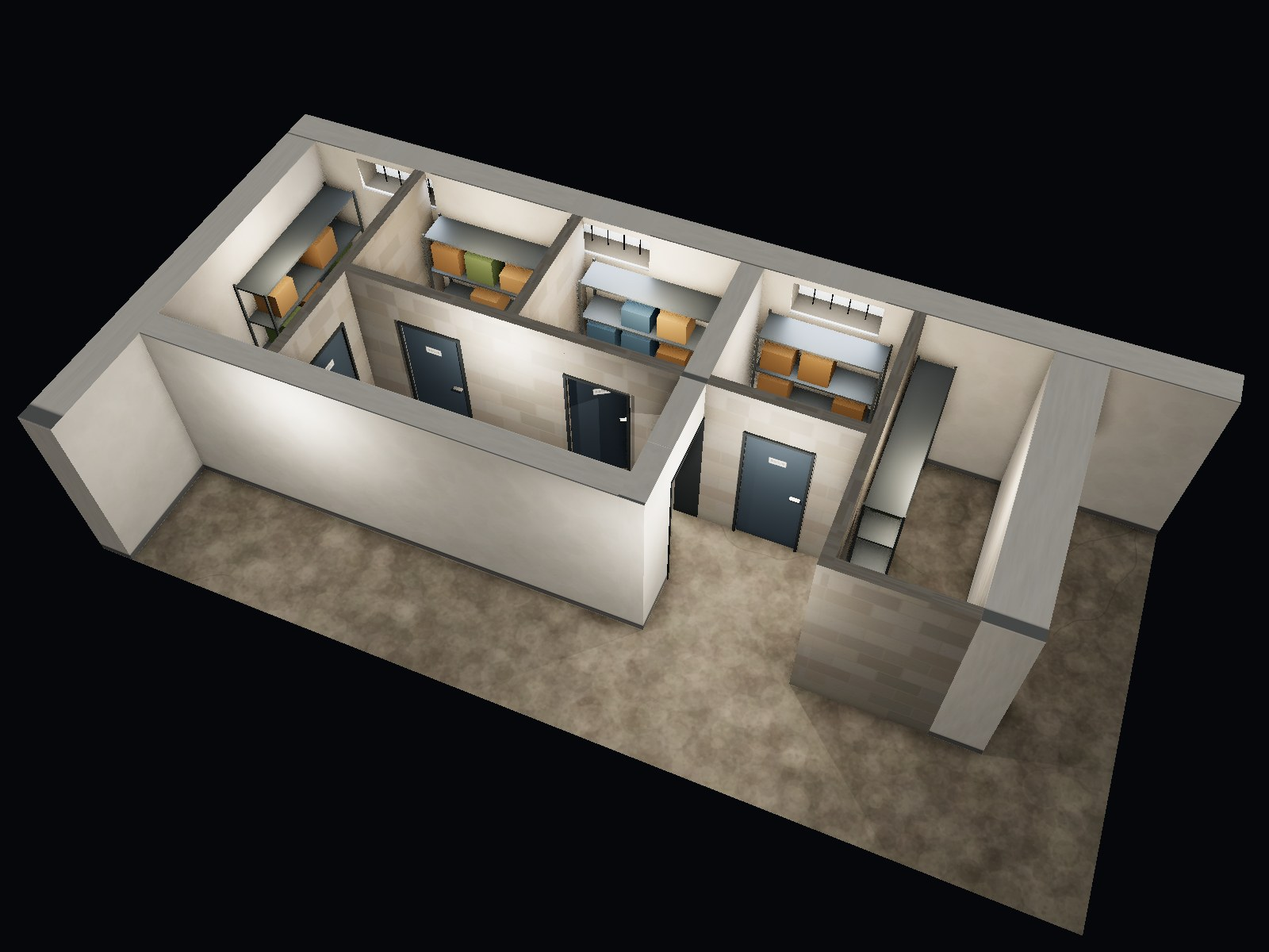
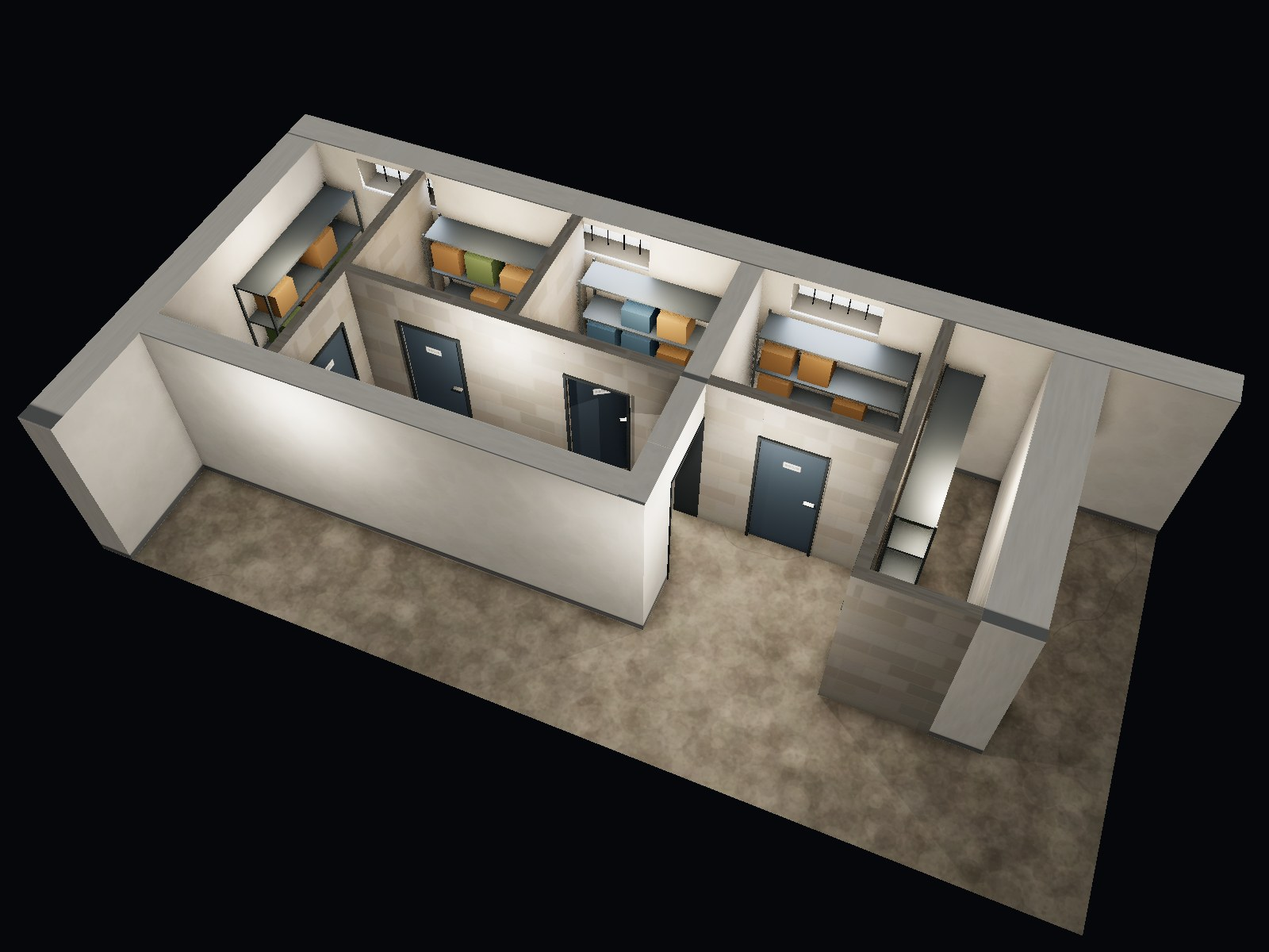
Widen 885/9 to 2,20 m (4,07 m²), narrow 885/2 to 1,15 m
Claude-Session: https://claude.ai/code/session_01PwTnPep7yYfhi5YvdxRW3v

Changed region(s): [[0.5625, 0.3083, 0.7812, 0.6167], [0.5938, 0.6475, 0.6562, 0.74]]

diff --git a/sklepyjachymov.html b/sklepyjachymov.html
@@ -546,12 +546,12 @@
                     <rect x="246" y="80" width="84" height="74" class="proposed-unit" onclick="selectItem('proposal2', 'Kóje 885/8', 'Sklepní kóje – cílový stav', '2,10 x 1,85 m (3,89 m²)', 'Vnitřní rozměr, příčky 15 cm, dveře 0,80 m')"></rect>
                     <text x="288" y="96.8" class="label-title" fill="#0d47a1" style="font-size:11px;">885/8</text>
                     <text x="288" y="110" class="label-title" fill="#0d47a1" style="font-size:9px; font-weight:normal;">2,10 × 1,85</text>
-                    <rect x="342" y="80" width="74" height="74" class="proposed-unit" onclick="selectItem('proposal2', 'Kóje 885/9', 'Sklepní kóje – cílový stav', '1,85 x 1,85 m (3,42 m²)', 'Vnitřní rozměr, příčky 15 cm, dveře 0,80 m')"></rect>
-                    <text x="379" y="96.8" class="label-title" fill="#0d47a1" style="font-size:11px;">885/9</text>
-                    <text x="379" y="110" class="label-title" fill="#0d47a1" style="font-size:9px; font-weight:normal;">1,85 × 1,85</text>
-                    <rect x="422" y="80" width="60" height="146" class="proposed-unit" onclick="selectItem('proposal2', 'Kóje 885/2', 'Sklepní kóje – cílový stav', '1,50 x 3,65 m (5,47 m²)', 'Vnitřní rozměr, příčky 15 cm, dveře 0,80 m')"></rect>
-                    <text x="452" y="147" class="label-title" fill="#0d47a1" style="font-size:11px;">885/2</text>
-                    <text x="452" y="160.2" class="label-title" fill="#0d47a1" style="font-size:9px; font-weight:normal;">1,50 × 3,65</text>
+                    <rect x="342" y="80" width="88" height="74" class="proposed-unit" onclick="selectItem('proposal2', 'Kóje 885/9', 'Sklepní kóje – cílový stav', '2,20 x 1,85 m (4,07 m²)', 'Vnitřní rozměr, příčky 15 cm, dveře 0,80 m')"></rect>
+                    <text x="386" y="96.8" class="label-title" fill="#0d47a1" style="font-size:11px;">885/9</text>
+                    <text x="386" y="110" class="label-title" fill="#0d47a1" style="font-size:9px; font-weight:normal;">2,20 × 1,85</text>
+                    <rect x="436" y="80" width="46" height="146" class="proposed-unit" onclick="selectItem('proposal2', 'Kóje 885/2', 'Sklepní kóje – cílový stav', '1,15 x 3,65 m (4,20 m²)', 'Vnitřní rozměr, příčky 15 cm, dveře 0,80 m')"></rect>
+                    <text x="459" y="147" class="label-title" fill="#0d47a1" style="font-size:11px;">885/2</text>
+                    <text x="459" y="160.2" class="label-title" fill="#0d47a1" style="font-size:9px; font-weight:normal;">1,15 × 3,65</text>
                     <rect x="655.4" y="80" width="104" height="152" class="proposed-unit" onclick="selectItem('proposal2', 'Kóje 885/10', 'Sklepní kóje – cílový stav', '2,60 x 3,80 m (9,88 m²)', 'Vnitřní rozměr, příčky 15 cm, dveře 0,80 m')"></rect>
                     <text x="707.4" y="150" class="label-title" fill="#0d47a1" style="font-size:11px;">885/10</text>
                     <text x="707.4" y="163.2" class="label-title" fill="#0d47a1" style="font-size:9px; font-weight:normal;">2,60 × 3,80</text>
@@ -574,16 +574,16 @@
                     <text x="803.8" y="96.8" class="label-title" fill="#0d47a1" style="font-size:11px;">A6</text>
                     <text x="803.8" y="110" class="label-title" fill="#0d47a1" style="font-size:9px; font-weight:normal;">1,50 × 1,95</text>
                     <rect x="156" y="160" width="174" height="57.96" fill="#f5f5f5" stroke="#9e9e9e" stroke-width="1" style="cursor: pointer;" onclick="selectItem('proposal2', 'Přístup A1', 'Přístupová plocha', '4,35 x 1,45 m (6,30 m²)', 'Přístup ke kójím 885/1, 885/6 a 885/8 průchodem z A2')"></rect>
-                    <rect x="342" y="160" width="74" height="72" fill="#f5f5f5" stroke="#9e9e9e" stroke-width="1" style="cursor: pointer;" onclick="selectItem('proposal2', 'Přístup A2', 'Přístupová plocha', '1,85 x 1,80 m (3,33 m²)', 'Otevřeno do chodby C1 v celé šířce 885/9 (1,85 m); přístup k 885/9 a 885/2, průchodem doleva do A1')"></rect>
+                    <rect x="342" y="160" width="88" height="72" fill="#f5f5f5" stroke="#9e9e9e" stroke-width="1" style="cursor: pointer;" onclick="selectItem('proposal2', 'Přístup A2', 'Přístupová plocha', '2,20 x 1,80 m (3,96 m²)', 'Otevřeno do chodby C1 v celé šířce 885/9 (2,20 m); přístup k 885/9 a 885/2, průchodem doleva do A1')"></rect>
                     <rect x="430" y="325.2" width="71.8" height="216.96" fill="#f5f5f5" stroke="#9e9e9e" stroke-width="1" style="cursor: pointer;" onclick="selectItem('proposal2', 'Přístup B2', 'Volná část B2', '1,79 x 5,42 m (9,74 m²)', 'Přístup ke kójím 885/5, 885/X a 885/4')"></rect>
                     <rect x="773.8" y="164" width="60" height="68" fill="#f5f5f5" stroke="#9e9e9e" stroke-width="1" style="cursor: pointer;" onclick="selectItem('proposal2', 'Boční chodba', 'Boční chodba', '1,50 x 1,70 m (2,55 m²)', 'Přístup ke kójím A6 a 885/7')"></rect>
                     <!-- Nové příčky 15 cm -->
                     <rect x="150" y="80" width="6" height="137.96" fill="#546e7a" pointer-events="none"></rect>
                     <rect x="240" y="80" width="6" height="74" fill="#546e7a" pointer-events="none"></rect>
                     <rect x="156" y="154" width="174" height="6" fill="#546e7a" pointer-events="none"></rect>
-                    <rect x="342" y="154" width="74" height="6" fill="#546e7a" pointer-events="none"></rect>
-                    <rect x="416" y="80" width="6" height="152" fill="#546e7a" pointer-events="none"></rect>
-                    <rect x="422" y="226" width="60" height="6" fill="#546e7a" pointer-events="none"></rect>
+                    <rect x="342" y="154" width="88" height="6" fill="#546e7a" pointer-events="none"></rect>
+                    <rect x="430" y="80" width="6" height="152" fill="#546e7a" pointer-events="none"></rect>
+                    <rect x="436" y="226" width="46" height="6" fill="#546e7a" pointer-events="none"></rect>
                     <rect x="288" y="393.52" width="136" height="6" fill="#546e7a" pointer-events="none"></rect>
                     <rect x="288" y="467.84" width="136" height="6" fill="#546e7a" pointer-events="none"></rect>
                     <rect x="424" y="325.2" width="6" height="216.96" fill="#546e7a" pointer-events="none"></rect>
@@ -605,14 +605,14 @@
                         <line x1="272" y1="154" x2="272" y2="122" class="door-leaf"></line>
                     </g>
                     <g class="door-proposal" onclick="selectItem('proposal2', 'Dveře 885/9', 'Vstupní dveře 885/9', 'Šířka 0,80 m, otevírání dovnitř', 'v čelní příčce, z přístupové plochy A2')">
-                        <rect x="363" y="154" width="32" height="6" class="door-gap"></rect>
-                        <path d="M 363 154 L 363 122 A 32 32 0 0 1 395 154 Z" class="door-swing"></path>
-                        <line x1="363" y1="154" x2="363" y2="122" class="door-leaf"></line>
+                        <rect x="370" y="154" width="32" height="6" class="door-gap"></rect>
+                        <path d="M 370 154 L 370 122 A 32 32 0 0 1 402 154 Z" class="door-swing"></path>
+                        <line x1="370" y1="154" x2="370" y2="122" class="door-leaf"></line>
                     </g>
                     <g class="door-proposal" onclick="selectItem('proposal2', 'Dveře 885/2', 'Vstupní dveře 885/2', 'Šířka 0,80 m, otevírání dovnitř', 'v boční příčce, z přístupové plochy A2')">
-                        <rect x="416" y="180" width="6" height="32" class="door-gap"></rect>
-                        <path d="M 422 180 L 454 180 A 32 32 0 0 1 422 212 Z" class="door-swing"></path>
-                        <line x1="422" y1="180" x2="454" y2="180" class="door-leaf"></line>
+                        <rect x="430" y="180" width="6" height="32" class="door-gap"></rect>
+                        <path d="M 436 180 L 468 180 A 32 32 0 0 1 436 212 Z" class="door-swing"></path>
+                        <line x1="436" y1="180" x2="468" y2="180" class="door-leaf"></line>
                     </g>
                     <g class="door-proposal" onclick="selectItem('proposal2', 'Dveře 885/5', 'Vstupní dveře 885/5', 'Šířka 0,80 m, otevírání dovnitř', 'v čelní příčce, z volné části B2')">
                         <rect x="424" y="343.36" width="6" height="32" class="door-gap"></rect>
@@ -842,14 +842,14 @@
                         <rect x="90" y="232" width="669.4" height="62" class="v2-corridor" onclick="selectItem('vis2', 'C1', 'Společná chodba', '16,71 x 1,55 m', 'Páteřní chodba sklepů')"></rect>
                         <rect x="759.4" y="232" width="74.4" height="62" class="v2-corridor" onclick="selectItem('vis2', 'Uzel chodby', 'Společná chodba', '1,86 x 1,55 m', 'Propojení s boční chodbou')"></rect>
                         <rect x="156" y="160" width="174" height="57.96" class="v2-corridor" onclick="selectItem('vis2', 'Přístup A1', 'Přístupová plocha', '4,35 x 1,45 m (6,30 m²)', 'Přístup ke kójím 885/1, 885/6 a 885/8 průchodem z A2')"></rect>
-                        <rect x="342" y="160" width="74" height="72" class="v2-corridor" onclick="selectItem('vis2', 'Přístup A2', 'Přístupová plocha', '1,85 x 1,80 m (3,33 m²)', 'Otevřeno do chodby C1 v celé šířce 885/9 (1,85 m); přístup k 885/9 a 885/2, průchodem doleva do A1')"></rect>
+                        <rect x="342" y="160" width="88" height="72" class="v2-corridor" onclick="selectItem('vis2', 'Přístup A2', 'Přístupová plocha', '2,20 x 1,80 m (3,96 m²)', 'Otevřeno do chodby C1 v celé šířce 885/9 (2,20 m); přístup k 885/9 a 885/2, průchodem doleva do A1')"></rect>
                         <rect x="430" y="325.2" width="71.8" height="216.96" class="v2-corridor" onclick="selectItem('vis2', 'Přístup B2', 'Volná část B2', '1,79 x 5,42 m (9,74 m²)', 'Přístup ke kójím 885/5, 885/X a 885/4')"></rect>
                         <rect x="773.8" y="164" width="60" height="68" class="v2-corridor" onclick="selectItem('vis2', 'Boční chodba', 'Boční chodba', '1,50 x 1,70 m (2,55 m²)', 'Přístup ke kójím A6 a 885/7')"></rect>
                         <rect x="90" y="80" width="60" height="137.96" class="v2-unit" onclick="selectItem('vis2', 'Kóje 885/1', 'Sklepní kóje – cílový stav', '1,50 x 3,45 m (5,17 m²)', 'Vnitřní rozměr, příčky 15 cm, dveře 0,80 m')"></rect>
                         <rect x="156" y="80" width="84" height="74" class="v2-unit" onclick="selectItem('vis2', 'Kóje 885/6', 'Sklepní kóje – cílový stav', '2,10 x 1,85 m (3,89 m²)', 'Vnitřní rozměr, příčky 15 cm, dveře 0,80 m')"></rect>
                         <rect x="246" y="80" width="84" height="74" class="v2-unit" onclick="selectItem('vis2', 'Kóje 885/8', 'Sklepní kóje – cílový stav', '2,10 x 1,85 m (3,89 m²)', 'Vnitřní rozměr, příčky 15 cm, dveře 0,80 m')"></rect>
-                        <rect x="342" y="80" width="74" height="74" class="v2-unit" onclick="selectItem('vis2', 'Kóje 885/9', 'Sklepní kóje – cílový stav', '1,85 x 1,85 m (3,42 m²)', 'Vnitřní rozměr, příčky 15 cm, dveře 0,80 m')"></rect>
-                        <rect x="422" y="80" width="60" height="146" class="v2-unit" onclick="selectItem('vis2', 'Kóje 885/2', 'Sklepní kóje – cílový stav', '1,50 x 3,65 m (5,47 m²)', 'Vnitřní rozměr, příčky 15 cm, dveře 0,80 m')"></rect>
+                        <rect x="342" y="80" width="88" height="74" class="v2-unit" onclick="selectItem('vis2', 'Kóje 885/9', 'Sklepní kóje – cílový stav', '2,20 x 1,85 m (4,07 m²)', 'Vnitřní rozměr, příčky 15 cm, dveře 0,80 m')"></rect>
+                        <rect x="436" y="80" width="46" height="146" class="v2-unit" onclick="selectItem('vis2', 'Kóje 885/2', 'Sklepní kóje – cílový stav', '1,15 x 3,65 m (4,20 m²)', 'Vnitřní rozměr, příčky 15 cm, dveře 0,80 m')"></rect>
                         <rect x="655.4" y="80" width="104" height="152" class="v2-unit" onclick="selectItem('vis2', 'Kóje 885/10', 'Sklepní kóje – cílový stav', '2,60 x 3,80 m (9,88 m²)', 'Vnitřní rozměr, příčky 15 cm, dveře 0,80 m')"></rect>
                         <rect x="848.2" y="80" width="240" height="120" class="v2-unit" onclick="selectItem('vis2', 'Kóje 885/7', 'Sklepní kóje – cílový stav', '6,00 x 3,00 m (18,00 m²)', 'Vnitřní rozměr, příčky 15 cm, dveře 0,80 m')"></rect>
                         <rect x="288" y="325.2" width="136" height="68.32" class="v2-unit" onclick="selectItem('vis2', 'Kóje 885/5', 'Sklepní kóje – cílový stav', '3,40 x 1,71 m (5,81 m²)', 'Vnitřní rozměr, příčky 15 cm, dveře 0,80 m')"></rect>
@@ -873,9 +873,9 @@
                             <rect x="150" y="80" width="6" height="137.96" class="v2-partition"></rect>
                             <rect x="240" y="80" width="6" height="74" class="v2-partition"></rect>
                             <rect x="156" y="154" width="174" height="6" class="v2-partition"></rect>
-                            <rect x="342" y="154" width="74" height="6" class="v2-partition"></rect>
-                            <rect x="416" y="80" width="6" height="152" class="v2-partition"></rect>
-                            <rect x="422" y="226" width="60" height="6" class="v2-partition"></rect>
+                            <rect x="342" y="154" width="88" height="6" class="v2-partition"></rect>
+                            <rect x="430" y="80" width="6" height="152" class="v2-partition"></rect>
+                            <rect x="436" y="226" width="46" height="6" class="v2-partition"></rect>
                             <rect x="288" y="393.52" width="136" height="6" class="v2-partition"></rect>
                             <rect x="288" y="467.84" width="136" height="6" class="v2-partition"></rect>
                             <rect x="424" y="325.2" width="6" height="216.96" class="v2-partition"></rect>
@@ -897,14 +897,14 @@
                             <line x1="272" y1="154" x2="272" y2="122" class="v2-door-leaf"></line>
                         </g>
                         <g class="v2-door" onclick="selectItem('vis2', 'Dveře 885/9', 'Vstupní dveře 885/9', '0,80 m, otevírání dovnitř', 'v čelní příčce, z přístupové plochy A2')">
-                            <rect x="363" y="154" width="32" height="6" class="v2-door-gap"></rect>
-                            <path d="M 363 154 L 363 122 A 32 32 0 0 1 395 154 Z" class="v2-door-swing"></path>
-                            <line x1="363" y1="154" x2="363" y2="122" class="v2-door-leaf"></line>
+                            <rect x="370" y="154" width="32" height="6" class="v2-door-gap"></rect>
+                            <path d="M 370 154 L 370 122 A 32 32 0 0 1 402 154 Z" class="v2-door-swing"></path>
+                            <line x1="370" y1="154" x2="370" y2="122" class="v2-door-leaf"></line>
                         </g>
                         <g class="v2-door" onclick="selectItem('vis2', 'Dveře 885/2', 'Vstupní dveře 885/2', '0,80 m, otevírání dovnitř', 'v boční příčce, z přístupové plochy A2')">
-                            <rect x="416" y="180" width="6" height="32" class="v2-door-gap"></rect>
-                            <path d="M 422 180 L 454 180 A 32 32 0 0 1 422 212 Z" class="v2-door-swing"></path>
-                            <line x1="422" y1="180" x2="454" y2="180" class="v2-door-leaf"></line>
+                            <rect x="430" y="180" width="6" height="32" class="v2-door-gap"></rect>
+                            <path d="M 436 180 L 468 180 A 32 32 0 0 1 436 212 Z" class="v2-door-swing"></path>
+                            <line x1="436" y1="180" x2="468" y2="180" class="v2-door-leaf"></line>
                         </g>
                         <g class="v2-door" onclick="selectItem('vis2', 'Dveře 885/5', 'Vstupní dveře 885/5', '0,80 m, otevírání dovnitř', 'v čelní příčce, z volné části B2')">
                             <rect x="424" y="343.36" width="6" height="32" class="v2-door-gap"></rect>
@@ -950,12 +950,12 @@
                         <text x="288" y="96.8" class="v2-num">885/8</text>
                         <text x="288" y="109.6" class="v2-dim">2,10 × 1,85</text>
                         <text x="288" y="120.8" class="v2-area">3,89 m²</text>
-                        <text x="379" y="96.8" class="v2-num v2-num-s">885/9</text>
-                        <text x="379" y="109.6" class="v2-dim">1,85 × 1,85</text>
-                        <text x="379" y="120.8" class="v2-area">3,42 m²</text>
-                        <text x="452" y="132" class="v2-num v2-num-s">885/2</text>
-                        <text x="452" y="144.8" class="v2-dim">1,50 × 3,65</text>
-                        <text x="452" y="156" class="v2-area">5,47 m²</text>
+                        <text x="386" y="96.8" class="v2-num">885/9</text>
+                        <text x="386" y="109.6" class="v2-dim">2,20 × 1,85</text>
+                        <text x="386" y="120.8" class="v2-area">4,07 m²</text>
+                        <text x="459" y="132" class="v2-num v2-num-s">885/2</text>
+                        <text x="459" y="144.8" class="v2-dim">1,15 × 3,65</text>
+                        <text x="459" y="156" class="v2-area">4,20 m²</text>
                         <text x="707.4" y="132" class="v2-num">885/10</text>
                         <text x="707.4" y="144.8" class="v2-dim">2,60 × 3,80</text>
                         <text x="707.4" y="156" class="v2-area">9,88 m²</text>
@@ -983,7 +983,7 @@
                         <text x="394" y="214" class="v2-corr-sub">přístup</text>
                         <text x="474" y="432" class="v2-corr-sub" transform="rotate(-90 474 432)">PŘÍSTUP B2 · 1,795 m</text>
                         <text x="803.8" y="198" class="v2-corr-sub">chodba</text>
-                        <g class="v2-door" onclick="selectItem('vis2', 'Vstup', 'Vstup k horním kójím', 'Otevřeno z chodby C1 v celé šířce 885/9 (1,85 m)', 'Přístup ke kójím 885/9 a 885/2, dále průchodem doleva k 885/1, 885/6 a 885/8')">
+                        <g class="v2-door" onclick="selectItem('vis2', 'Vstup', 'Vstup k horním kójím', 'Otevřeno z chodby C1 v celé šířce 885/9 (2,20 m)', 'Přístup ke kójím 885/9 a 885/2, dále průchodem doleva k 885/1, 885/6 a 885/8')">
                             <path d="M 379 258 L 379 238 M 373 245 L 379 237.2 L 385 245" class="v2-arrow"></path>
                             <text x="379" y="270" class="v2-corr-sub" font-weight="bold" fill="#1565c0">VSTUP</text>
                         </g>
@@ -1038,9 +1038,9 @@
                             <polyline points="322,212 322,144" class="e2-feed"></polyline>
                             <rect x="317.5" y="139.5" width="9" height="9" class="elec-socket"></rect>
                         </g>
-                        <g class="e2-circuit" onclick="selectItem('elec2', 'Okruh K4 – 885/9', 'Zásuvka kóje 885/9', 'CYKY-J 3x2,5 · jistič B16 · elektroměr E4 · cca 13,5 m', 'Z RS v A3 po trase pod stropem do zásuvky 230 V IP44; podružný elektroměr E4 pro odečet a rozúčtování. Svítidlo je na samostatném okruhu osvětlení O2.')">
-                            <polyline points="394,212 408,212 408,144" class="e2-feed"></polyline>
-                            <rect x="403.5" y="139.5" width="9" height="9" class="elec-socket"></rect>
+                        <g class="e2-circuit" onclick="selectItem('elec2', 'Okruh K4 – 885/9', 'Zásuvka kóje 885/9', 'CYKY-J 3x2,5 · jistič B16 · elektroměr E4 · cca 13,9 m', 'Z RS v A3 po trase pod stropem do zásuvky 230 V IP44; podružný elektroměr E4 pro odečet a rozúčtování. Svítidlo je na samostatném okruhu osvětlení O2.')">
+                            <polyline points="394,212 424,212 424,144" class="e2-feed"></polyline>
+                            <rect x="419.5" y="139.5" width="9" height="9" class="elec-socket"></rect>
                         </g>
                         <g class="e2-circuit" onclick="selectItem('elec2', 'Okruh K5 – 885/2', 'Zásuvka kóje 885/2', 'CYKY-J 3x2,5 · jistič B16 · elektroměr E5 · cca 13,7 m', 'Z RS v A3 po trase pod stropem do zásuvky 230 V IP44; podružný elektroměr E5 pro odečet a rozúčtování. Svítidlo je na samostatném okruhu osvětlení O2.')">
                             <polyline points="476,216.8 476,212" class="e2-feed"></polyline>
@@ -1071,17 +1071,17 @@
                         <g class="e2-circuit" onclick="selectItem('elec2', 'Okruh K12 – 885/12', 'Zásuvka nebytové jednotky 885/12', 'CYKY-J 3x2,5 · jistič B16 · elektroměr E12 · cca 14,2 m', 'Z RS v A3 po trase pod stropem do zásuvky 230 V IP44; podružný elektroměr E12 pro odečet a rozúčtování. Svítidlo je na samostatném okruhu osvětlení O2.')">
                             <rect x="857.5" y="261.5" width="9" height="9" class="elec-socket"></rect>
                         </g>
-                        <g class="e2-circuit" onclick="selectItem('elec2', 'Okruh O2', 'Svítidla v kójích a nebytových jednotkách', 'CYKY-J 3x1,5 · jistič B10 · cca 83,8 m', 'Ze samostatného přívodu osvětlení; svítidlo LED IP44 v každé kóji a v 885/11 a 885/12, vypínač u dveří')">
+                        <g class="e2-circuit" onclick="selectItem('elec2', 'Okruh O2', 'Svítidla v kójích a nebytových jednotkách', 'CYKY-J 3x1,5 · jistič B10 · cca 84,0 m', 'Ze samostatného přívodu osvětlení; svítidlo LED IP44 v každé kóji a v 885/11 a 885/12, vypínač u dveří')">
                             <polyline points="96,212 96,202 96,96 112,96" class="e2-light-line"></polyline>
                             <circle cx="120" cy="96" r="7" class="elec-light"></circle>
                             <polyline points="232,212 232,144 232,130 228,130" class="e2-light-line"></polyline>
                             <circle cx="222" cy="130" r="7" class="elec-light"></circle>
                             <polyline points="322,212 322,144 322,130 318,130" class="e2-light-line"></polyline>
                             <circle cx="312" cy="130" r="7" class="elec-light"></circle>
-                            <polyline points="394,212 408,212 408,144 408,130 404,130" class="e2-light-line"></polyline>
-                            <circle cx="398" cy="130" r="7" class="elec-light"></circle>
-                            <polyline points="476,216.8 476,212 476,104 458,104" class="e2-light-line"></polyline>
-                            <circle cx="452" cy="104" r="7" class="elec-light"></circle>
+                            <polyline points="394,212 424,212 424,144 424,130 420,130" class="e2-light-line"></polyline>
+                            <circle cx="414" cy="130" r="7" class="elec-light"></circle>
+                            <polyline points="476,216.8 476,212 476,104 466,104" class="e2-light-line"></polyline>
+                            <circle cx="458.8" cy="104" r="7" class="elec-light"></circle>
                             <polyline points="440,385.2 420,385.2 304,385.2" class="e2-light-line"></polyline>
                             <circle cx="298" cy="385.2" r="7" class="elec-light"></circle>
                             <polyline points="440,459.52 420,459.52 304,459.52" class="e2-light-line"></polyline>
@@ -1103,7 +1103,7 @@
                         <polyline points="566,248 796,248 796,256" class="e2-light-line"></polyline>
                         <polyline points="714,248 714,256" class="e2-light-line"></polyline>
                         <polyline points="286,248 286,195.2" class="e2-light-line"></polyline>
-                        <polyline points="404,248 404,200.8" class="e2-light-line"></polyline>
+                        <polyline points="364,248 364,196.8" class="e2-light-line"></polyline>
                         <polyline points="528.4,248 528.4,214.8" class="e2-light-line"></polyline>
                         <polyline points="575.4,98 593.2,98" class="e2-light-line"></polyline>
                         <polyline points="778,248 778,144.8" class="e2-light-line"></polyline>
@@ -1117,7 +1117,7 @@
                         <circle cx="600" cy="98" r="7" class="elec-light e2-common" onclick="selectItem('elec2', 'Svítidlo A3', 'Společný sklep A3', 'LED IP44', 'Okruh O1 – společné osvětlení (samostatný přívod osvětlení, jistič B10), spínáno čidly pohybu')"></circle>
                         <circle cx="782" cy="138" r="7" class="elec-light e2-common" onclick="selectItem('elec2', 'Svítidlo A6', 'Společná kóje A6', 'LED IP44', 'Okruh O1 – společné osvětlení (samostatný přívod osvětlení, jistič B10), spínáno čidly pohybu')"></circle>
                         <circle cx="286" cy="188.8" r="7" class="elec-light e2-common" onclick="selectItem('elec2', 'Svítidlo P-A1', 'Přístupová plocha A1', 'LED IP44', 'Okruh O1 – společné osvětlení (samostatný přívod osvětlení, jistič B10), spínáno čidly pohybu')"></circle>
-                        <circle cx="404" cy="194" r="7" class="elec-light e2-common" onclick="selectItem('elec2', 'Svítidlo P-A2', 'Přístupová plocha A2', 'LED IP44', 'Okruh O1 – společné osvětlení (samostatný přívod osvětlení, jistič B10), spínáno čidly pohybu')"></circle>
+                        <circle cx="364" cy="190" r="7" class="elec-light e2-common" onclick="selectItem('elec2', 'Svítidlo P-A2', 'Přístupová plocha A2', 'LED IP44', 'Okruh O1 – společné osvětlení (samostatný přívod osvětlení, jistič B10), spínáno čidly pohybu')"></circle>
                         <circle cx="466" cy="360" r="7" class="elec-light e2-common" onclick="selectItem('elec2', 'Svítidlo P-B2-1', 'Přístup B2', 'LED IP44', 'Okruh O1 – společné osvětlení (samostatný přívod osvětlení, jistič B10), spínáno čidly pohybu')"></circle>
                         <circle cx="484" cy="464" r="7" class="elec-light e2-common" onclick="selectItem('elec2', 'Svítidlo P-B2-2', 'Přístup B2', 'LED IP44', 'Okruh O1 – společné osvětlení (samostatný přívod osvětlení, jistič B10), spínáno čidly pohybu')"></circle>
                         <path d="M 535 239.2 A 7 7 0 0 1 549 239.2 Z" class="e2-pir" onclick="selectItem('elec2', 'PIR-1', 'Čidlo pohybu', 'PIR, IP44', 'U schodiště v chodbě C1; spíná okruh O1')"></path>
@@ -1187,7 +1187,7 @@
                             <line x1="314" y1="17" x2="334" y2="17" class="e2-tray"></line><text x="339" y="21" class="e2-legend">trasa</text>
                             <line x1="374" y1="17" x2="394" y2="17" class="e2-feed"></line><text x="399" y="21" class="e2-legend">zásuvky</text>
                             <line x1="446" y1="17" x2="466" y2="17" class="e2-light-line"></line><text x="471" y="21" class="e2-legend">světla</text>
-                            <text x="98" y="34" class="e2-legend" style="font-size:9px; fill:#607d8b;">3×2,5 zásuvky K1–K12 + Z1 ≈ 199,4 m (B16) · 3×1,5 světla O1 + O2 ≈ 118,6 m (B10, samost. přívod)</text>
+                            <text x="98" y="34" class="e2-legend" style="font-size:9px; fill:#607d8b;">3×2,5 zásuvky K1–K12 + Z1 ≈ 199,8 m (B16) · 3×1,5 světla O1 + O2 ≈ 118,9 m (B10, samost. přívod)</text>
                         </g>
                     </g>
 
@@ -1413,7 +1413,7 @@
                 // Elektroinstalace 2 nad vizualizací cílového stavu 2
                 layerVis2.style.display = 'block';
                 layerElec2.style.display = 'block';
-                selectItem('elec2', 'Elektroinstalace 2', 'Rozvod z podružného rozvaděče RS v A3', 'Zásuvky: 12 okruhů s elektroměry E1–E12 + Z1 s E13 · Světla: samostatný přívod, O1 + O2', 'Zásuvky CYKY-J 3x2,5 cca 199,4 m (B16), světla CYKY-J 3x1,5 cca 118,6 m (B10)');
+                selectItem('elec2', 'Elektroinstalace 2', 'Rozvod z podružného rozvaděče RS v A3', 'Zásuvky: 12 okruhů s elektroměry E1–E12 + Z1 s E13 · Světla: samostatný přívod, O1 + O2', 'Zásuvky CYKY-J 3x2,5 cca 199,8 m (B16), světla CYKY-J 3x1,5 cca 118,9 m (B10)');
             } else if (mode === 'electric') {
                 layerWork.style.display = 'block';
                 layerOff.style.display = 'block';

diff --git a/vizualizace3d-a1a2.html b/vizualizace3d-a1a2.html
@@ -31,8 +31,8 @@
     <div id="view"></div>
     <div class="panel">
         <h1>Místnosti A1 a A2 – cílový stav</h1>
-        <p><b>A1:</b> 885/1 (1,50 × 3,45 m), 885/6 a 885/8 (2,10 × 1,85 m). <b>A2:</b> 885/9 (1,85 × 1,85 m), 885/2 (1,50 × 3,65 m).</p>
-        <p>Dřevěná příčka před A2 vybourána, přístup z chodby C1 otevřený v celé šířce 885/9 (1,85 m); do A1 průchodem 1,00 m bez dveří. Příčky z tvárnic 15 cm až ke stropu, dveře 0,80 m.</p>
+        <p><b>A1:</b> 885/1 (1,50 × 3,45 m), 885/6 a 885/8 (2,10 × 1,85 m). <b>A2:</b> 885/9 (2,20 × 1,85 m), 885/2 (1,15 × 3,65 m).</p>
+        <p>Dřevěná příčka před A2 vybourána, přístup z chodby C1 otevřený v celé šířce 885/9 (2,20 m); do A1 průchodem 1,00 m bez dveří. Příčky z tvárnic 15 cm až ke stropu, dveře 0,80 m.</p>
         <p class="note">Vizualizace podle Návrhu cílového stavu 2 a přesného zaměření: A1 6,00 × 3,449 m, A2 3,50 × 3,80 m, chodba C1 1,55 m, světlá výška 2,60 m, okna 1,13 × 0,50 m s parapetem ve 2,00 m. Myší lze pohled otáčet a přibližovat.</p>
         <div class="buttons">
             <button data-view="entry" class="active">Pohled od vstupu</button>
@@ -235,9 +235,9 @@
         wall(1.5, 0, 1.65, D1, 'block', [{ a: 2.32, b: 3.12, h: DOOR_H }]);                          // 885/1 | přístup A1
         wall(1.65, 1.85, A1W, 2.0, 'block', [{ a: 2.3, b: 3.1, h: DOOR_H }, { a: 4.55, b: 5.35, h: DOOR_H }]); // čelo 885/6 + 885/8
         wall(3.75, 0, 3.9, 1.85, 'block');                                                            // 885/6 | 885/8
-        wall(OX, 1.85, OX + 1.85, 2.0, 'block', [{ a: OX + 0.525, b: OX + 1.325, h: DOOR_H }]);       // čelo 885/9
-        wall(OX + 1.85, 0, OX + 2.0, C1Z, 'block', [{ a: 2.50, b: 3.30, h: DOOR_H }]);               // 885/9 + přístup | 885/2
-        wall(OX + 2.0, 3.65, OX + A2W, C1Z, 'block');                                                 // 885/2 do chodby C1
+        wall(OX, 1.85, OX + 2.20, 2.0, 'block', [{ a: OX + 0.70, b: OX + 1.50, h: DOOR_H }]);        // čelo 885/9
+        wall(OX + 2.20, 0, OX + 2.35, C1Z, 'block', [{ a: 2.50, b: 3.30, h: DOOR_H }]);              // 885/9 + přístup | 885/2
+        wall(OX + 2.35, 3.65, OX + A2W, C1Z, 'block');                                                // 885/2 do chodby C1
 
         // ---------- Dveře ----------
         const frameMat = std({ color: '#5a6268', metalness: 0.5, roughness: 0.45 });
@@ -276,8 +276,8 @@
         door('885/1', 'z', 1.65, -1, 2.32);
         door('885/6', 'x', 2.0, -1, 2.3);
         door('885/8', 'x', 2.0, -1, 4.55, 0.55);
-        door('885/9', 'x', 2.0, -1, OX + 0.525);
-        door('885/2', 'z', OX + 1.85, 1, 2.50);
+        door('885/9', 'x', 2.0, -1, OX + 0.70);
+        door('885/2', 'z', OX + 2.20, 1, 2.50);
 
         // Průchod A2 → A1 (1,00 m): jen otvor s ocelovou zárubní, bez křídla
         [[A1W, 2.0 - 0.012], [A1W, 3.0 + 0.012]].forEach(([x, z]) => add(box(0.33, 2.02, 0.03), frameMat, x + 0.15, 1.01, z));
@@ -288,7 +288,7 @@
         const boxCols = ['#b48a5a', '#a07a4c', '#c49a68', '#5d7f99', '#7a8b5c'];
         // kóje: [x0, z0, x1, z1, strana regálu ('n' = u severní stěny, 'w' = u západní)]
         const KOJE = { '885/1': [0, 0, 1.5, D1, 'w'], '885/6': [1.65, 0, 3.75, 1.85, 'n'], '885/8': [3.9, 0, A1W, 1.85, 'n'],
-            '885/9': [OX, 0, OX + 1.85, 1.85, 'n'], '885/2': [OX + 2.0, 0, OX + A2W, 3.65, 'w'] };
+            '885/9': [OX, 0, OX + 2.20, 1.85, 'n'], '885/2': [OX + 2.35, 0, OX + A2W, 3.65, 'w'] };
         Object.entries(KOJE).forEach(([name, [x0, z0, x1, z1, side]], i) => {
             const r = rng(90 + i);
             const sd = 0.45;
